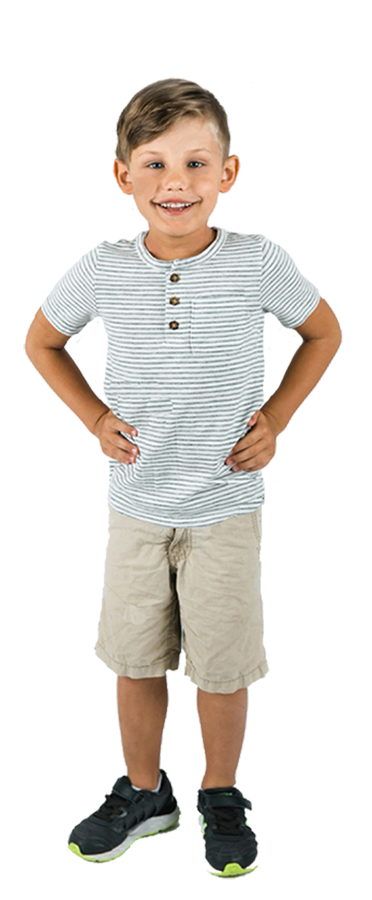
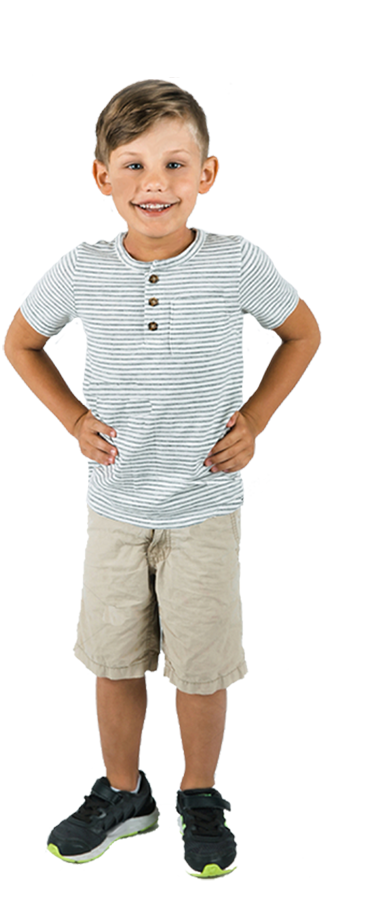
added body need circles and the coolest kid ever Jacobi

Changed region(s): [[0.0, 0.0622, 0.9167, 0.9956]]

diff --git a/css/style.css b/css/style.css
@@ -4378,8 +4378,8 @@ ul.count_down.white li p:nth-child(2) {
 }
 #body-needs{
     position:absolute;
-    top:33%;
-    left:48.5%;
+    top:29%;
+    left:57.5%;
     z-index: 1;
     height:35px;
     width:35px;
@@ -4391,8 +4391,8 @@ ul.count_down.white li p:nth-child(2) {
 #body-feels{
     display:none;
     position:absolute;
-    top:37%;
-    left:45%;
+    top:32%;
+    left:58%;
     height:30px;
     width:170px; 
     z-index: 2;
@@ -4692,8 +4692,24 @@ ul.count_down.white li p:nth-child(2) {
     text-align:center;
     z-index:2;
 }
+#i-need3{
+    position:absolute;
+    top:22%;
+    left:59.5%;
+    display: none;
+    /* display:flex; */
+    justify-content:center;
+    align-items:center;
+    background: rgb(0, 230, 115,0.5);
+    width: 140px;
+    height: 140px;
+    border-radius: 50%;
+    text-align:center;
+    z-index:2;
+}
 #need1,
-#need2{
+#need2,
+#need3{
     height:80px;
     width:90px;
     border-radius: 50%;
@@ -4703,7 +4719,8 @@ ul.count_down.white li p:nth-child(2) {
 }
 
 #need-text1,
-#need-text2{
+#need-text2,
+#need-text3{
     background:transparent;
     width: 110px;
     height: 30px;
@@ -4719,7 +4736,8 @@ ul.count_down.white li p:nth-child(2) {
     /* margin-left:25px; */
     /* border-radius: 50%; */
 }
-#need-text2{
+#need-text2,
+#sick-text1{
     background:transparent;
     width: 110px;
     height: 30px;
@@ -4751,5 +4769,172 @@ ul.count_down.white li p:nth-child(2) {
     margin-top:10%;
     margin-left:10%;
 }
+#need3-inner{
+    background: rgb(0, 230, 115,0.8);
+    width: 110px;
+    height: 110px;
+    border-radius: 50%;
+    margin-top:10%;
+    margin-left:10%;
+}
+#sick1{
+    position:absolute;
+    top:25.75%;
+    left:68.5%;
+    display: none;
+    /* display:flex; */
+    justify-content:center;
+    align-items:center;
+    background: rgb(65, 105, 225,0.6);
+    width: 100px;
+    height: 100px;
+    border-radius: 50%;
+    text-align:center;
+    z-index:2;
+    border:solid 2px black;
+}
+#sick-1,
+#sick-2,
+#sick-3,
+#sick-4,
+#sick-5{
+    height:65px;
+    width:80px;
+    border-radius: 50%;
+    margin-top:7%;
+    /* border:solid 2px yellow; */
+    /* justify-content: center; */
+}
+#sick-4{
+    height:65px;
+    width:80px;
+    border-radius: 50%;
+    margin-top:7%;
+    /* border:solid 2px yellow; */
+    /* justify-content: center; */
+}
 
+#sick-text1,
+#sick-text4{
+    background:transparent;
+    width: 110px;
+    height: 30px;
+    /* align-items:center; */
+    /* border:2px solid magenta; */
+    font-size:14pt;
+    color:black;
+    text-align:center;
+    /* margin-top:-5%; */
+    z-index: 3;
+    font-weight: bold;
+    margin-left:-6.5%;
+    margin-top:-1.5%;
+    /* margin-left:2%; */
+    /* margin-left:25px; */
+    /* border-radius: 50%; */
+}
+#sick2{
+    position:absolute;
+    top:25.75%;
+    left:75%;
+    display: none;
+    /* display:flex; */
+    justify-content:center;
+    align-items:center;
+    background:rgb(154, 205, 50);
+    width: 100px;
+    height: 100px;
+    border-radius: 50%;
+    text-align:center;
+    z-index:2;
+    border:solid 2px black;
+}
+#sick-text2,
+#sick-text3{
+    background:transparent;
+    width: 110px;
+    height: 30px;
+    /* align-items:center; */
+    /* border:2px solid magenta; */
+    font-size:11pt;
+    color:black;
+    text-align:center;
+    /* margin-top:-5%; */
+    z-index: 3;
+    font-weight: bold;
+    margin-left:-6.5%;
+    margin-top:-7%;
+    /* margin-left:2%; */
+    /* margin-left:25px; */
+    /* border-radius: 50%; */
+}
+#sick-text5{
+    background:transparent;
+    width: 110px;
+    height: 30px;
+    /* align-items:center; */
+    /* border:2px solid magenta; */
+    font-size:11pt;
+    color:black;
+    text-align:center;
+    /* margin-top:-5%; */
+    z-index: 3;
+    font-weight: bold;
+    margin-left:-6.5%;
+    margin-top:-15%;
+    /* margin-left:2%; */
+    /* margin-left:25px; */
+    /* border-radius: 50%; */
+}
+#sick3{
+    position:absolute;
+    top:25.75%;
+    left:81.5%;
+    display: none;
+    /* display:flex; */
+    justify-content:center;
+    align-items:center;
+    background: rgb(0, 255, 255);
+    width: 100px;
+    height: 100px;
+    border-radius: 50%;
+    text-align:center;
+    z-index:2;
+    border:solid 2px black;
+}
+
+#sick4{
+    position:absolute;
+    top:38.5%;
+    left:68.5%;
+    display: none;
+    /* display:flex; */
+    justify-content:center;
+    align-items:center;
+    background:hotpink;
+    width: 100px;
+    height: 100px;
+    border-radius: 50%;
+    text-align:center;
+    z-index:2;
+    border:solid 2px black;
+}
+
+#sick5{
+    position:absolute;
+    top:38.5%;
+    left:68.5%;
+    left:75%;
+    display: none;
+    /* display:flex; */
+    justify-content:center;
+    align-items:center;
+    background:rgb(255, 0, 0,0.85);
+    width: 100px;
+    height: 100px;
+    border-radius: 50%;
+    text-align:center;
+    z-index:2;
+    border:solid 2px black;
+}
 .brand {display: none !important}

diff --git a/index.html b/index.html
@@ -141,12 +141,12 @@
 <div id="feelings" onmouseover="feelingsTitle()" onmouseout="noMoreTitle()" onclick="showEmotion()" ondblclick="hideEmotion()">
     <img id="feelings-btn" src="images/button.png">
 </div>
-<div id="i-feel">I feel...</div>
+<div id="i-feel">My Feelings</div>
 
 <div id="body-needs" onmouseover="bodyTitle()" onmouseout="noBodyTitle()" onclick=showBody() ondblclick="hideBody()">
     <img id="body-btn" src="images/button.png">
 </div>
-<div id="body-feels">How my body feels</div>
+<div id="body-feels">My Body</div>
 
 
 <div id="emotion">
@@ -199,6 +199,42 @@
         <div id="need-text2">Head hurts</div>
     </div>
 </div>
+<div id="i-need3" onclick="showSick()" ondblclick="hideSick()">
+    <div id="need3-inner">
+        <img id="need3" src="images/sick.png">
+        <div id="need-text3">Feel sick</div>
+    </div>
+</div>
+<div id="sick1">
+    <div id="sick1-inner"></div>
+        <img id="sick-1" src="images/cough.png">
+        <div id="sick-text1">Cold</div>
+    </div>
+</div>
+<div id="sick2">
+    <div id="sick1-inner"></div>
+        <img id="sick-2" src="images/nauseated.png">
+        <div id="sick-text2">Throw up</div>
+    </div>
+</div>
+<div id="sick3">
+    <div id="sick3-inner"></div>
+        <img id="sick-3" src="images/freezing.png">
+        <div id="sick-text3">Freezing</div>
+    </div>
+</div>
+<div id="sick4">
+    <div id="sick4-inner"></div>
+        <img id="sick-4" src="images/hot.png">
+        <div id="sick-text4">Hot</div>
+    </div>
+</div>
+<div id="sick5">
+    <div id="sick5-inner"></div>
+        <img id="sick-5" src="images/throat.png">
+        <div id="sick-text5">Sore throat</div>
+    </div>
+</div>
 <script>
     function feelingsTitle(){
         document.getElementById('i-feel').style.display="block";
@@ -219,6 +255,7 @@
         document.getElementById('body-feels').style.display="none";
     }
 </script>
+
 <script>
     function showEmotion(){
         document.getElementById('emotion').style.display="flex";
@@ -243,12 +280,39 @@
     function showBody(){
         document.getElementById("i-need1").style.display="block";
         document.getElementById("i-need2").style.display="block";
+        document.getElementById("i-need3").style.display="block";
     }
 </script>
 <script>
     function hideBody(){
         document.getElementById("i-need1").style.display="none";
         document.getElementById("i-need2").style.display="none";
+        document.getElementById("i-need3").style.display="none";
+        document.getElementById("sick1").style.display="none";
+        document.getElementById("sick2").style.display="none";
+        document.getElementById("sick3").style.display="none";
+        document.getElementById("sick4").style.display="none";
+        document.getElementById("sick5").style.display="none";
+    }
+</script>
+<script>
+    function showSick(){
+        document.getElementById("sick1").style.display="block";
+        document.getElementById("sick2").style.display="block";
+        document.getElementById("sick3").style.display="block";
+        document.getElementById("sick4").style.display="block";
+        document.getElementById("sick5").style.display="block";
+        // document.getElementById("body-feels").style.display="none";
+    }
+</script>
+<script>
+    function hideSick(){
+        document.getElementById("sick1").style.display="none";
+        document.getElementById("sick2").style.display="none";
+        document.getElementById("sick3").style.display="none";
+        document.getElementById("sick4").style.display="none";
+        document.getElementById("sick5").style.display="none";
+        // document.getElementById("body-feels").style.color="black";
     }
 </script>
 <section id="home" class="p-0 dark-slider single-slide">
@@ -406,7 +470,7 @@
                          data-transform_out="s:1000;e:Power3.easeInOut;s:1000;e:Power3.easeInOut;"
                          data-start="1000" data-splitin="none" data-splitout="none">
                         <h2>Welcome to</h2>
-                        <img id="test" src="images/boy.png">
+                        <img id="test" src="images/ray-warrior.png" onclick="jacobiRecess()" ondblclick="jacobiClass()">
                     </div>
 
                     <div class="tp-caption tp-resizeme"
@@ -448,7 +512,16 @@
     <!-- END REVOLUTION SLIDER -->
     </div>
 
-
+<script>
+    function jacobiRecess(){
+        document.getElementById('test').src="images/boy.png";
+    }
+</script>
+<script>
+    function jacobiClass(){
+        document.getElementById('test').src="images/ray-warrior.png";
+    }
+</script>
  <!--scroll down-->
  <!-- <a href="#about" class="scroll-down scroll">Scroll Down <i class="fa fa-long-arrow-down"></i></a> -->
 
